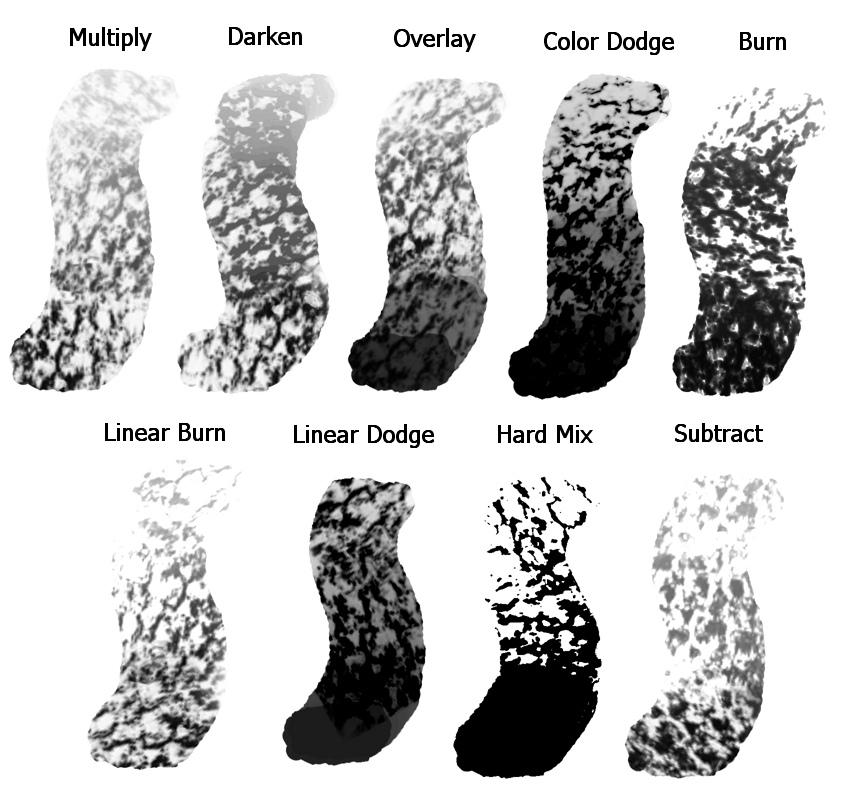
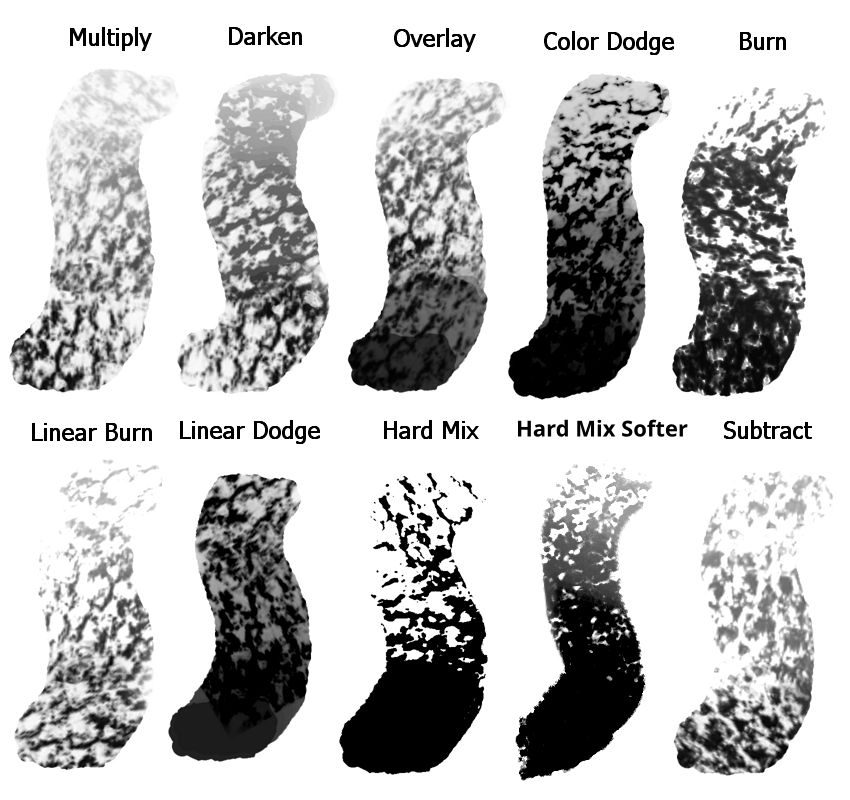
Add new brush texture modes documentation

Changed region(s): [[0.0, 0.5312, 0.9788, 1.0]]

diff --git a/reference_manual/brushes/brush_settings/texture.rst b/reference_manual/brushes/brush_settings/texture.rst
@@ -7,6 +7,7 @@
    :authors: - Wolthera van Hövell tot Westerflier <griffinvalley@gmail.com>
              - Scott Petrovic
              - Peter Schatz
+             - Deif Lou <ginoba@gmail.com>
    :license: GNU free documentation license 1.3 or later.
 
 .. index:: Texture, Patterns
@@ -32,21 +33,119 @@ Horizontal Offset & Vertical Offset
 
     .. image:: /images/brushes/Krita_2_9_brushengine_texture_04.png
 Texturing mode
-    Multiply Alpha
-        Uses alpha multiplication to determine the effect of the texture. Has a soft feel.
-    Subtract Alpha
-        Uses subtraction to determine the effect of the texture. Has a harsher, more texture feel.
-        
-    .. versionadded:: 4.4
-        Lightness and Gradient Map options:
-    
-    Lightness Map
-        Applies lightness values of the texture to the paint.  Can be used to simulate paper/canvas, or for painting a texture, like reptile skin or tree bark.
-    Gradient Map
-        Maps gray/lightness values of the texture to the currently selected gradient.  Useful for painting textures with multiple colors, like reptile skin, tree bark, stars, etc.
-        
+    All texture modes affect the alpha channel, with the exception of *lightness map* and *gradient map*, which
+    affect the color channels.
+
     .. image:: /images/brushes/Krita_2_9_brushengine_texture_01.png
     .. image:: /images/brushes/Krita_4_4_brushengine_texture_lightness_gradient_demo.png
+
+    In the following explanations, the sample strokes go from low strength on the left side to high strength on the
+    right side. The top stroke uses a hard brush tip and the bottom one a soft brush tip. On the left side of the
+    strokes there are two non-textured dots, just for comparison sake.
+
+    Multiply
+        Uses alpha multiplication to determine the effect of the texture. Has a soft feel.
+
+        .. image:: /images/brushes/texture_blending_modes/multiply.png
+    Subtract
+        Uses subtraction to determine the effect of the texture. Has a harsher, more texture feel.
+
+        .. image:: /images/brushes/texture_blending_modes/subtract.png
+    Lightness Map
+        .. versionadded:: 4.4
+        
+        Applies lightness values of the texture to the paint.  Can be used to simulate paper/canvas, or for painting a texture, like reptile skin or tree bark.
+
+        .. image:: /images/brushes/texture_blending_modes/lightness_map.png
+    Gradient Map
+        .. versionadded:: 4.4
+
+        Maps gray/lightness values of the texture to the currently selected gradient.  Useful for painting textures with multiple colors, like reptile skin, tree bark, stars, etc.
+
+        .. image:: /images/brushes/texture_blending_modes/gradient_map.png
+    Darken
+        .. versionadded:: 5.0
+
+        This mode chooses the minimum alpha value between the brush tip and the texture. The effect is as if the texture
+        made holes in the opaque areas of the brush tip.
+
+        .. image:: /images/brushes/texture_blending_modes/darken.png
+    Overlay
+        .. versionadded:: 5.0
+
+        The texture is softly applied to the semi-transparent areas of the brush tip.
+        This mode produces a result similar to *multiply* but allowing for full coverage when high strength values are used.
+
+        .. image:: /images/brushes/texture_blending_modes/overlay.png
+    Color Dodge
+        .. versionadded:: 5.0
+
+        This mode produces features with somewhat hard edges on the brush tip by making it more opaque where the texture
+        values are brighter.
+
+        .. image:: /images/brushes/texture_blending_modes/color_dodge.png
+    Burn
+        .. versionadded:: 5.0
+
+        This mode produces holes with somewhat hard edges on the brush tip by making it more transparent where the texture
+        values are darker.
+
+        .. image:: /images/brushes/texture_blending_modes/color_burn.png
+    Linear Dodge
+        .. versionadded:: 5.0
+
+        Similar to *color dodge* but the opacity of the brush tip is increased even more.
+
+        .. image:: /images/brushes/texture_blending_modes/linear_dodge.png
+    Linear Burn
+        .. versionadded:: 5.0
+
+        The result is similar to *burn* but with the opacity decreased a bit more. It also is similar to the *subtract*
+        mode but with the texture inverted.
+
+        .. image:: /images/brushes/texture_blending_modes/linear_burn.png
+    Hard Mix (Photoshop)
+        .. versionadded:: 5.0
+
+        This mode produces a result similar to *burn* or *linear burn* and allows to obtain full coverage when high strength values
+        are used. The resulting edges are very hard (in fact, aliased).
+
+        .. image:: /images/brushes/texture_blending_modes/hard_mix_ps.png
+    Hard Mix Softer (Photoshop)
+        .. versionadded:: 5.0
+
+        This mode tries to emulate *hard mix (photoshop)* while producing softer, antialiased, edges.
+
+        .. image:: /images/brushes/texture_blending_modes/hard_mix_softer_ps.png
+    Height
+        .. versionadded:: 5.0
+
+        This mode is similar to the *subtract* mode but with a higher range of possibilities when applying the strength.
+        Contrary to *subtract*, it allows to achieve full coverage with one stroke.
+
+        .. image:: /images/brushes/texture_blending_modes/height.png
+    Linear Height
+        .. versionadded:: 5.0
+
+        Same as *height* but combined with *multiply* to achieve softer transitions.
+
+        .. image:: /images/brushes/texture_blending_modes/linear_height.png
+    Height (Photoshop)
+        .. versionadded:: 5.0
+
+        As the *height* mode, this mode is similar to the *subtract* mode but with a higher range of possibilities when applying
+        the strength. Contrary to *subtract*, it allows to achieve full coverage with one stroke. This mode tries to
+        emulate the height mode present in Photoshop and it only differs from Krita's *height* mode on how the strength
+        is mapped in the algorithm. When using a strength value of 0.1 the results are almost identical to the *subtract*
+        mode with a strength of 1.
+
+        .. image:: /images/brushes/texture_blending_modes/height_ps.png
+    Linear Height (Photoshop)
+        .. versionadded:: 5.0
+
+        Same as *height (photoshop)* but combined with *multiply* to achieve softer transitions.
+
+        .. image:: /images/brushes/texture_blending_modes/linear_height_ps.png
 
 Cutoff policy
     Cutoff policy will determine what range and where the strength will affect the textured outcome.

diff --git a/reference_manual/blending_modes/mix.rst b/reference_manual/blending_modes/mix.rst
@@ -7,6 +7,7 @@
    :authors: - Wolthera van Hövell tot Westerflier <griffinvalley@gmail.com>
              - Maria Luisac
              - Reptorian <reptillia39@live.com>
+             - Deif Lou <ginoba@gmail.com>
    :license: GNU free documentation license 1.3 or later.
 
 
@@ -160,6 +161,7 @@ Mixes both Color Dodge and Burn blending modes. If the color of the upper layer 
    
    Left: **Normal**. Right: **Hard Mix**.
 
+.. index:: ! Hard Mix (Photoshop)
 .. _bm_hard_mix_photoshop:
 
 Hard Mix (Photoshop)
@@ -175,7 +177,28 @@ This is the hard mix blending mode as it is implemented in photoshop.
    
 This add the two values, and then checks if the value is above the maximum. If so it will output the maximum, otherwise the minimum.
 
-.. index:: ! Hard OVerlay
+.. index:: ! Hard Mix Softer (Photoshop)
+.. _bm_hard_mix_softer_photoshop:
+
+Hard Mix Softer (Photoshop)
+~~~~~~~~~~~~~~~~~~~~~~~~~~~
+
+.. versionadded:: 5.0
+
+This is the hard mix blending mode as it is implemented in photoshop for texturing brushes. It produces softer edges
+than the normal *Hard Mix (Photoshop)*.
+
+.. figure:: /images/blending_modes/mix/Blending_modes_Hard_Mix_Softer_Photoshop_Sample_image_with_dots.png
+   :figwidth: 800
+   :align: center
+   
+   **Left**: Dots are mixed in with the normal blending mode, on the **Right**: Dots are mixed in with hard mix softer.
+   
+This is like the inverse subtract mode but the two terms are scaled up to increase the contrast. This is not really a
+hard mix mode in the sense that it doesn't choose between a result or another based on a threshold, although in most
+cases the result looks like the normal *Hard Mix (Photoshop)* but with softer edges.
+
+.. index:: ! Hard Overlay
 .. _bm_hard_overlay:
 
 Hard Overlay
